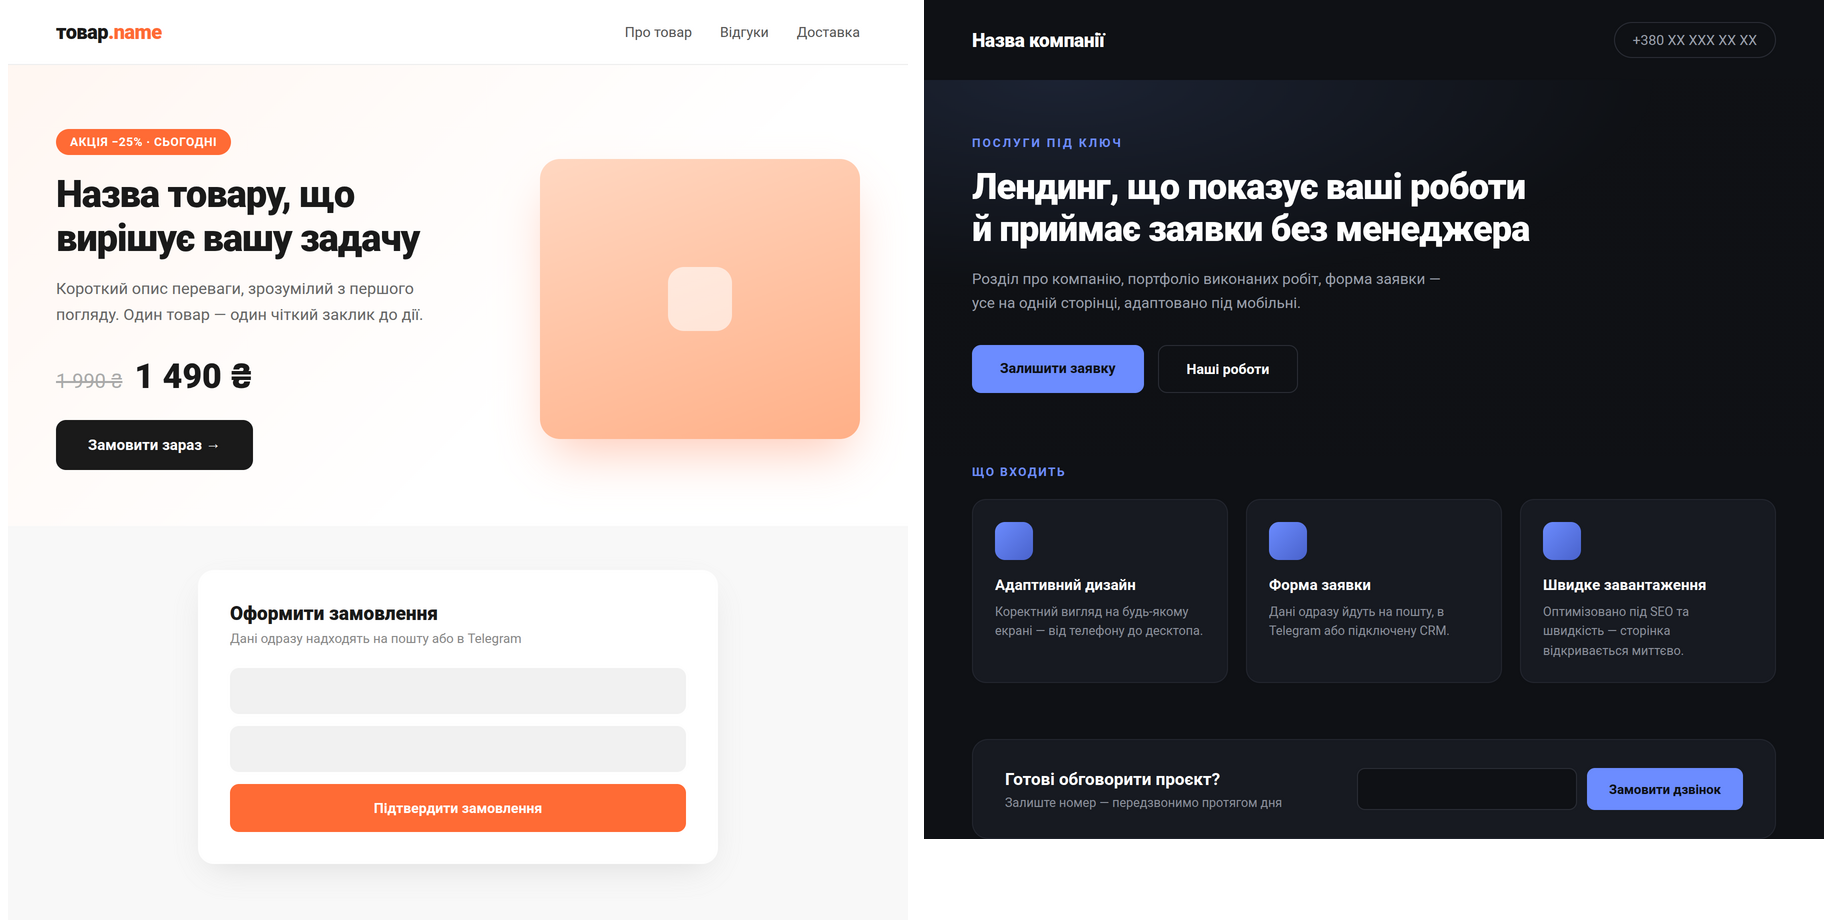
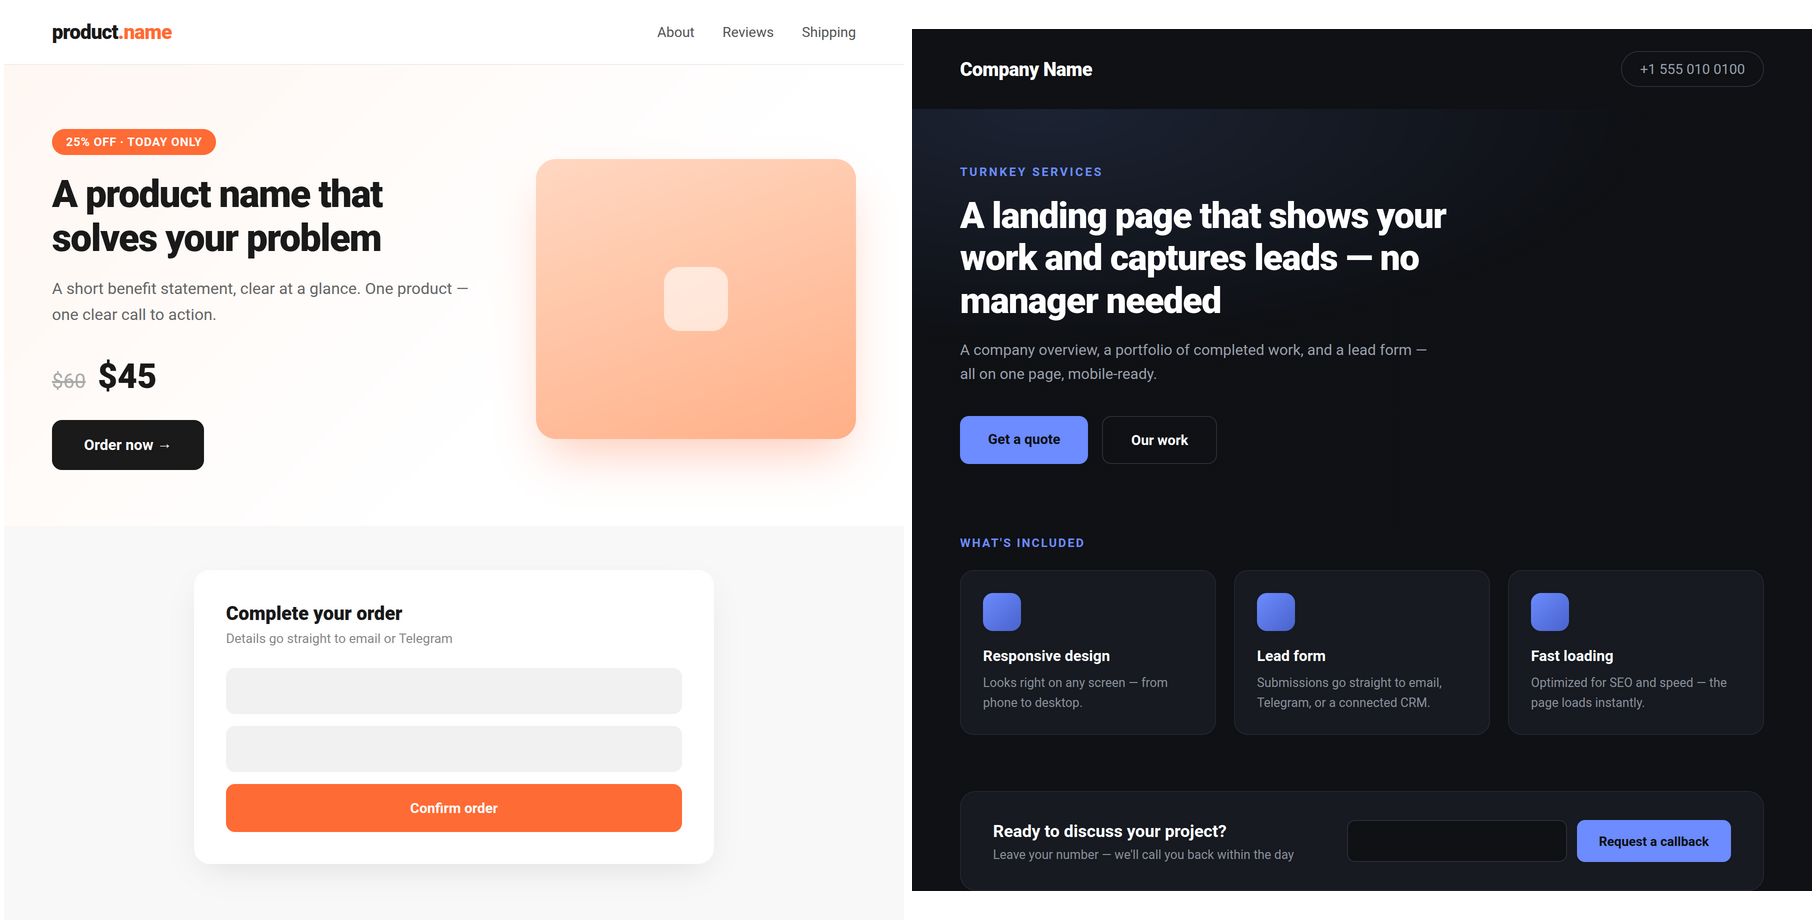
Use English-language mockups on the landing-turnkey EN portfolio page (#116)
The EN page previously showed the same Ukrainian-text design renders
as the UK page. Adds English translations of both HTML mockups
(design-1-product-en.html, design-2-business-en.html), screenshots
them, and swaps the EN page's design images plus the hero image to
the English-content versions. Prices shown in $, not UAH.

diff --git a/portfolio/assets/images/landing-turnkey/design-2-business-en.html b/portfolio/assets/images/landing-turnkey/design-2-business-en.html
@@ -1,0 +1,72 @@
+<!DOCTYPE html>
+<html lang="en">
+<head>
+<meta charset="UTF-8">
+<style>
+  * { margin:0; padding:0; box-sizing:border-box; }
+  body { font-family: -apple-system, "Segoe UI", Roboto, Arial, sans-serif; width:900px; background:#0f1115; color:#fff; }
+
+  header { display:flex; align-items:center; justify-content:space-between; padding:22px 48px; }
+  .logo { font-weight:800; font-size:19px; letter-spacing:-0.3px; }
+  .phone { font-size:14px; color:#9aa0ac; border:1px solid #2a2d35; padding:9px 18px; border-radius:999px; }
+
+  .hero { padding:56px 48px 64px; background: radial-gradient(120% 100% at 15% 0%, #1c2333 0%, #0f1115 55%); }
+  .kicker { font-size:12px; letter-spacing:2px; text-transform:uppercase; color:#6c8cff; font-weight:700; margin-bottom:16px; }
+  h1 { font-size:36px; font-weight:800; line-height:1.18; max-width:560px; letter-spacing:-0.8px; margin-bottom:16px; }
+  .hero p { font-size:15px; color:#9aa0ac; max-width:480px; line-height:1.6; margin-bottom:30px; }
+  .cta-row { display:flex; gap:14px; }
+  .cta-primary { background:#6c8cff; color:#0f1115; font-weight:700; font-size:14px; padding:15px 28px; border-radius:9px; }
+  .cta-secondary { border:1px solid #2a2d35; color:#fff; font-weight:600; font-size:14px; padding:15px 28px; border-radius:9px; }
+
+  .services { padding:8px 48px 56px; }
+  .services-head { font-size:12px; letter-spacing:1.5px; text-transform:uppercase; color:#6c8cff; font-weight:700; margin-bottom:20px; }
+  .cards { display:flex; gap:18px; }
+  .card { flex:1; background:#171a21; border:1px solid #23262f; border-radius:14px; padding:22px; }
+  .card .icon { width:38px; height:38px; border-radius:10px; background:linear-gradient(135deg,#6c8cff,#4a63cc); margin-bottom:16px; }
+  .card h4 { font-size:15px; font-weight:700; margin-bottom:8px; }
+  .card p { font-size:12.5px; color:#8a8f9a; line-height:1.55; }
+
+  .contact { margin:0 48px 48px; background:#171a21; border:1px solid #23262f; border-radius:16px; padding:28px 32px; display:flex; align-items:center; justify-content:space-between; gap:24px; }
+  .contact h3 { font-size:17px; font-weight:700; margin-bottom:6px; }
+  .contact p { font-size:12.5px; color:#8a8f9a; }
+  .field-inline { width:220px; height:42px; border-radius:8px; background:#0f1115; border:1px solid #2a2d35; }
+  .submit-inline { height:42px; padding:0 22px; border-radius:8px; background:#6c8cff; color:#0f1115; font-weight:700; font-size:13px; display:flex; align-items:center; justify-content:center; white-space:nowrap; }
+</style>
+</head>
+<body>
+  <header>
+    <div class="logo">Company Name</div>
+    <div class="phone">+1 555 010 0100</div>
+  </header>
+
+  <div class="hero">
+    <div class="kicker">Turnkey services</div>
+    <h1>A landing page that shows your work and captures leads — no manager needed</h1>
+    <p>A company overview, a portfolio of completed work, and a lead form — all on one page, mobile-ready.</p>
+    <div class="cta-row">
+      <div class="cta-primary">Get a quote</div>
+      <div class="cta-secondary">Our work</div>
+    </div>
+  </div>
+
+  <div class="services">
+    <div class="services-head">What's included</div>
+    <div class="cards">
+      <div class="card"><div class="icon"></div><h4>Responsive design</h4><p>Looks right on any screen — from phone to desktop.</p></div>
+      <div class="card"><div class="icon"></div><h4>Lead form</h4><p>Submissions go straight to email, Telegram, or a connected CRM.</p></div>
+      <div class="card"><div class="icon"></div><h4>Fast loading</h4><p>Optimized for SEO and speed — the page loads instantly.</p></div>
+    </div>
+  </div>
+
+  <div class="contact">
+    <div>
+      <h3>Ready to discuss your project?</h3>
+      <p>Leave your number — we'll call you back within the day</p>
+    </div>
+    <div style="display:flex; gap:10px;">
+      <div class="field-inline"></div>
+      <div class="submit-inline">Request a callback</div>
+    </div>
+  </div>
+</body>
+</html>

diff --git a/portfolio/assets/images/landing-turnkey/design-1-product-en.html b/portfolio/assets/images/landing-turnkey/design-1-product-en.html
@@ -1,0 +1,68 @@
+<!DOCTYPE html>
+<html lang="en">
+<head>
+<meta charset="UTF-8">
+<style>
+  * { margin:0; padding:0; box-sizing:border-box; }
+  body { font-family: -apple-system, "Segoe UI", Roboto, Arial, sans-serif; width:900px; background:#ffffff; color:#1a1a1a; }
+
+  header { display:flex; align-items:center; justify-content:space-between; padding:20px 48px; border-bottom:1px solid #eee; }
+  .logo { font-weight:800; font-size:20px; letter-spacing:-0.5px; color:#1a1a1a; }
+  .logo span { color:#ff6b35; }
+  nav { display:flex; gap:28px; font-size:14px; color:#555; }
+
+  .hero { position:relative; padding:64px 48px 56px; background: linear-gradient(135deg, #fff7f2 0%, #ffffff 60%); overflow:hidden; }
+  .badge { display:inline-block; background:#ff6b35; color:#fff; font-size:12px; font-weight:700; padding:6px 14px; border-radius:999px; letter-spacing:0.5px; margin-bottom:18px; }
+  .hero-grid { display:flex; align-items:center; gap:48px; }
+  .hero-text { flex:1; }
+  h1 { font-size:38px; line-height:1.15; font-weight:800; margin-bottom:16px; letter-spacing:-1px; }
+  .hero-text p { font-size:16px; color:#666; line-height:1.6; max-width:420px; margin-bottom:28px; }
+  .price-row { display:flex; align-items:baseline; gap:12px; margin-bottom:24px; }
+  .price-old { text-decoration:line-through; color:#aaa; font-size:20px; }
+  .price-new { font-size:34px; font-weight:800; color:#1a1a1a; }
+  .cta { display:inline-block; background:#1a1a1a; color:#fff; font-weight:700; font-size:15px; padding:16px 32px; border-radius:10px; }
+
+  .hero-visual { flex:0 0 320px; height:280px; border-radius:20px; background: linear-gradient(160deg,#ffd8c2,#ffb088); display:flex; align-items:center; justify-content:center; box-shadow: 0 24px 48px -12px rgba(255,107,53,0.35); }
+  .hero-visual .ph { width:64px; height:64px; border-radius:16px; background:rgba(255,255,255,0.6); }
+
+  .form-section { padding:44px 48px 56px; background:#f8f8f8; }
+  .form-card { max-width:520px; margin:0 auto; background:#fff; border-radius:16px; padding:32px; box-shadow: 0 12px 32px -12px rgba(0,0,0,0.12); }
+  .form-card h3 { font-size:19px; font-weight:800; margin-bottom:6px; }
+  .form-card .sub { font-size:13px; color:#888; margin-bottom:22px; }
+  .field { height:46px; border-radius:9px; background:#f1f1f1; margin-bottom:12px; }
+  .submit-btn { height:48px; border-radius:9px; background:#ff6b35; margin-top:6px; display:flex; align-items:center; justify-content:center; color:#fff; font-weight:700; font-size:14px; }
+</style>
+</head>
+<body>
+  <header>
+    <div class="logo">product<span>.name</span></div>
+    <nav><span>About</span><span>Reviews</span><span>Shipping</span></nav>
+  </header>
+
+  <div class="hero">
+    <div class="hero-grid">
+      <div class="hero-text">
+        <span class="badge">25% OFF · TODAY ONLY</span>
+        <h1>A product name that solves your problem</h1>
+        <p>A short benefit statement, clear at a glance. One product — one clear call to action.</p>
+        <div class="price-row">
+          <span class="price-old">$60</span>
+          <span class="price-new">$45</span>
+        </div>
+        <div class="cta">Order now →</div>
+      </div>
+      <div class="hero-visual"><div class="ph"></div></div>
+    </div>
+  </div>
+
+  <div class="form-section">
+    <div class="form-card">
+      <h3>Complete your order</h3>
+      <div class="sub">Details go straight to email or Telegram</div>
+      <div class="field"></div>
+      <div class="field"></div>
+      <div class="submit-btn">Confirm order</div>
+    </div>
+  </div>
+</body>
+</html>

diff --git a/portfolio/landing-turnkey.md b/portfolio/landing-turnkey.md
@@ -17,13 +17,13 @@ Two original landing-page design directions for the most common one-page-site re
 
 ### Product / promo
 
-![Product landing design: discount badge, price block, single CTA, and an order form](/portfolio/assets/images/landing-turnkey/landing-turnkey-design-1-1800x1840.png)
+![Product landing design: discount badge, price block, single CTA, and an order form](/portfolio/assets/images/landing-turnkey/landing-turnkey-design-1-en-1800x1840.png)
 
 Light theme built around a single product: a discount badge, an old-price/new-price pair, one primary call to action above the fold, and an order form below it. Fits a limited-time offer or a single-SKU sales page.
 
 ### Business / services
 
-![Business landing design: dark theme, feature cards, and a contact block](/portfolio/assets/images/landing-turnkey/landing-turnkey-design-2-1800x1678.png)
+![Business landing design: dark theme, feature cards, and a contact block](/portfolio/assets/images/landing-turnkey/landing-turnkey-design-2-en-1800x1724.png)
 
 Dark theme built around a company or service: a headline pitch, a row of feature/service cards, and a contact block with a phone-callback form. Fits a services page or a portfolio-style showcase.
 
